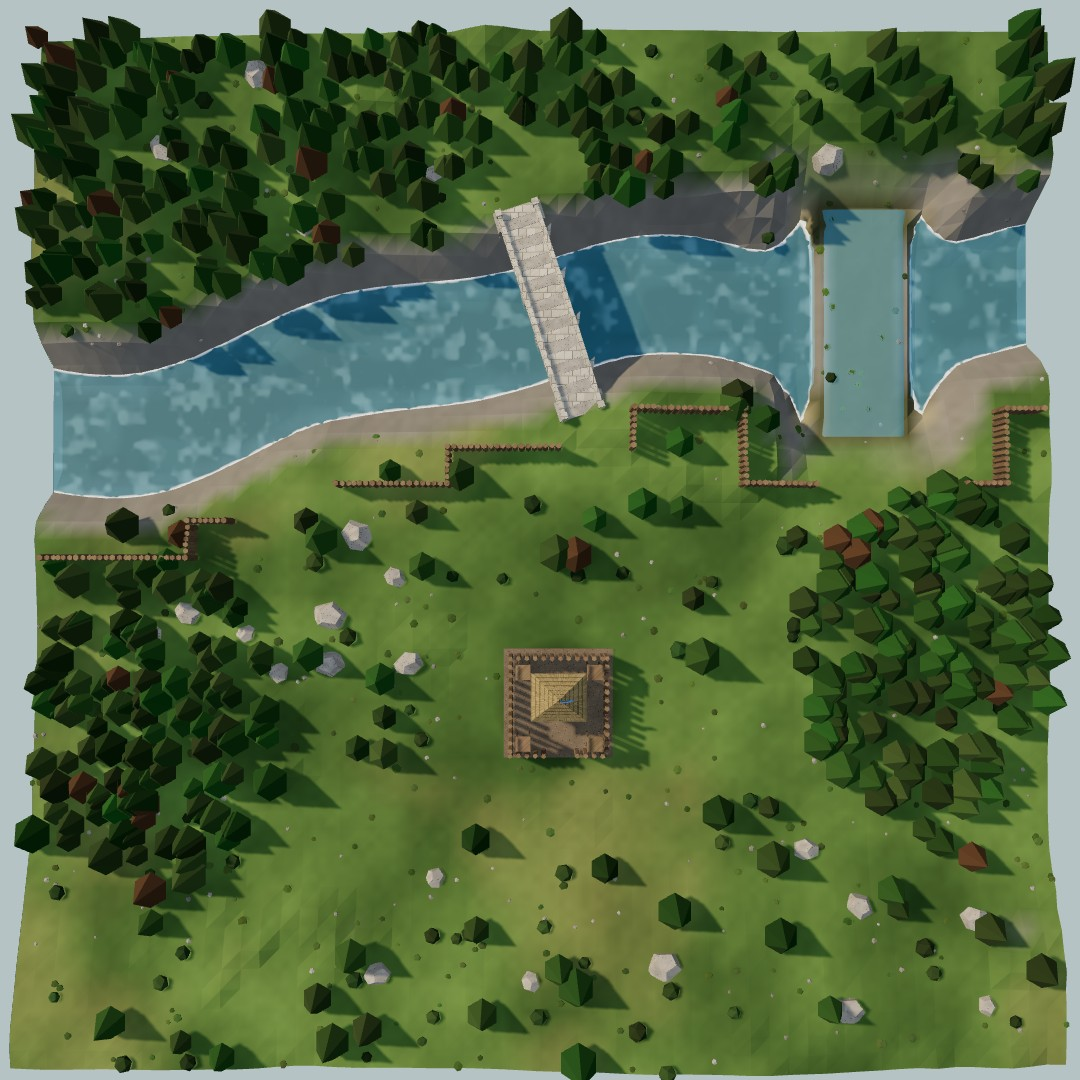
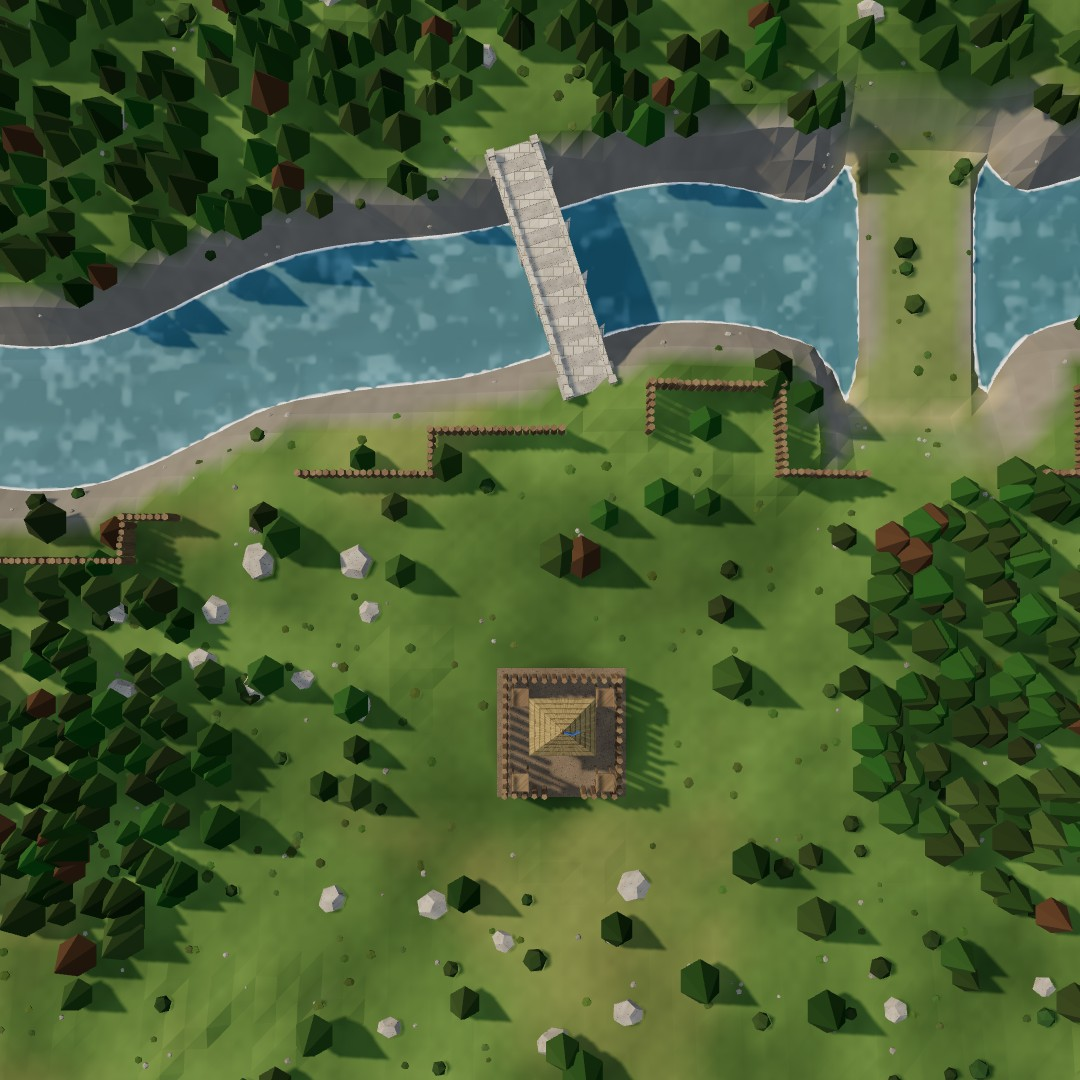
Stages: Stonebridge's ford a grassy strip again, new-building cards instead of a guide on stage 2, shorter days (stage 1 3/2/2 min, stage 2 4/2/2/2), previews framed with no sky
Claude-Session: https://claude.ai/code/session_01AE8sRRsVdpH9ETfQvtppox

diff --git a/index.html b/index.html
@@ -155,6 +155,15 @@ button.danger{border-color:#6b3a33;color:var(--bad)}
 #campInfo{width:100%;text-align:center;font-size:12px;color:var(--muted);letter-spacing:.08em;text-transform:uppercase}
 #campMap svg{max-height:calc(100dvh - 120px)!important}
 #stagePrev{background:rgba(12,13,9,.94);z-index:62}
+#newCards{z-index:63;background:rgba(8,10,9,.6)}
+.ncCard{width:min(300px,86vw);background:var(--panel);border:1px solid #6b5a2e;border-radius:14px;padding:16px 16px 14px;display:flex;flex-direction:column;align-items:center;gap:9px;text-align:center;box-shadow:0 6px 24px rgba(0,0,0,.5)}
+.ncStep{font-size:11px;letter-spacing:.1em;text-transform:uppercase;color:var(--muted)}
+.ncIcon svg{width:64px;height:64px;stroke:var(--gold);fill:none;stroke-width:1.4;stroke-linecap:round;stroke-linejoin:round}
+.ncCard h3{margin:0;font-family:var(--display);font-weight:400;font-size:22px;color:var(--gold)}
+.ncCost{display:flex;gap:12px;justify-content:center;font-size:16px;color:var(--parch)} .ncCost .cost,.ncStats .stat{display:inline-flex;align-items:center;gap:4px} .ncCost .ico svg,.ncStats .ico svg{width:20px;height:20px}
+.ncStats{display:flex;flex-wrap:wrap;justify-content:center;gap:8px 16px;font-size:17px;color:var(--parch)}
+#ncStats .stat{font-size:17px;gap:5px} #ncStats .stat .ico,#ncCost .ico{width:20px;height:20px}
+.ncCard button{min-width:120px;margin-top:4px}
 .stageSheet{display:flex;flex-direction:column;align-items:center;gap:12px;width:min(520px,100%);max-height:100%;overflow:auto}
 .stPic{width:100%;max-width:min(520px,62dvh);aspect-ratio:1/1;border-radius:10px;border:1px solid #4a4838;overflow:hidden;background:#2a2b22;display:flex;align-items:center;justify-content:center;position:relative;flex:0 0 auto}
 .stPic img{width:100%;height:100%;object-fit:cover;display:block} .stPic .tag{position:absolute;left:8px;top:8px;font-size:11px;letter-spacing:.08em;text-transform:uppercase;color:var(--parch);background:rgba(20,21,15,.75);padding:2px 7px;border-radius:5px} .stPic .soon{color:var(--muted);letter-spacing:.1em;text-transform:uppercase;font-size:13px}
@@ -409,6 +418,16 @@ button.armed .bIco{width:18px;height:18px;fill:none;stroke:currentColor;stroke-w
       <button id="campBack">Back</button>
     </div>
   </div>
+  <div class="modal" id="newCards" hidden>
+    <div class="ncCard">
+      <div class="ncStep" id="ncStep"></div>
+      <div class="ncIcon" id="ncIcon"></div>
+      <h3 id="ncName"></h3>
+      <div class="ncCost" id="ncCost"></div>
+      <div class="ncStats" id="ncStats"></div>
+      <button class="primary" id="ncNext">Next</button>
+    </div>
+  </div>
   <div class="modal" id="stagePrev" hidden>
     <div class="stageSheet">
       <div class="stPic" id="stPic"></div>
@@ -586,23 +605,16 @@ const MAP_RULES = {
                   { spear: [10, 26, 10], sword: [4, 12, 8], archer: [4, 10, 6], xbow: [0, 4, 2], lancer: [0, 1], rider: [0, 0, 1], ballista: [0, 1], catapult: [0, 1] }],
           day: [900, 150], spawnGap: .5 },
   // Greenvale, the campaign's first stop and its tutorial: three short nights of tier-1 spearmen and archers, from the north-east
-  vale: { waves: [{ spear: [4] }, { spear: [6], archer: [2] }, { spear: [8], archer: [3] }], day: [300, 180, 180], spawnGap: 1.6,
+  vale: { waves: [{ spear: [4] }, { spear: [6], archer: [2] }, { spear: [8], archer: [3] }], day: [180, 120, 120], spawnGap: 1.6,
           res: { gold: 60, wood: 70, stone: 10, food: 30 } },
   // Stonebridge (stage 2): raiders from the north over the stone bridge; from night 3 some come by the ford upstream; a ram on night 4
   bridge: { waves: [{ spear: [5] }, { spear: [6], sword: [3] }, { spear: [6], sword: [3], archer: [3] }, { spear: [8], sword: [4], archer: [3], ram: [1] }],
-            day: [300, 180, 180, 180], spawnGap: 1.4, res: { gold: 80, wood: 90, stone: 20, food: 30 } },
+            day: [240, 120, 120, 120], spawnGap: 1.4, res: { gold: 80, wood: 90, stone: 20, food: 30 } },
 };
 // campaign stops' own maps: the buildings each one has (the stop's and every earlier stop's), and where it sits on the overview
 const CAMP_MAPS = {
   vale: { stop: 0, cats: { eco: ['house', 'farm', 'lodge', 'quarry'], def: ['tower'], decor: ['road', 'flowers', 'torch'] } },
-  bridge: { stop: 1, cats: { eco: ['house', 'farm', 'lodge', 'quarry'], def: ['tower', 'barracks', 'wall', 'gate'], decor: ['road', 'flowers', 'torch', 'rack'] },
-    // its own guided first day: the new buildings, and closing the half-built wall along the bank
-    guide: () => [
-      { text: 'Build barracks', tool: 'barracks', cat: 'def', done: () => buildings.some(B => B.type === 'barracks') },
-      { text: 'Gate at the bridge', tool: 'gate', cat: 'def', done: () => { const b = bridges[0]; return !!b && buildings.some(B => B.type === 'gate' && Math.hypot(center(B).x - b.ex, center(B).z - b.ez) < 4.5); } },
-      { text: 'Close the wall', tool: 'wall', cat: 'def', done: () => BANK_WALL.length > 0 && BANK_WALL.every(n => occB[n] && WALLY[occB[n].type]) },
-      { text: 'Rally by the gate', tool: 'select', done: () => buildings.some(B => B.rally) },
-      { text: 'Weapon rack', tool: 'rack', cat: 'decor', done: () => buildings.some(B => B.type === 'rack') }] },
+  bridge: { stop: 1, cats: { eco: ['house', 'farm', 'lodge', 'quarry'], def: ['tower', 'barracks', 'wall', 'gate'], decor: ['road', 'flowers', 'torch', 'rack'] } },
 };
 var WAVES = WAVES_STD, NIGHTS = WAVES.length, DAYLEN = [300, 150, 150, 150, 150], SPAWN_GAP = 1.1;
 function mapRules() { const R = MAP_RULES[MAP]; WAVES = R ? R.waves : WAVES_STD; NIGHTS = WAVES.length; DAYLEN = R ? R.day : [300, 150, 150, 150, 150]; SPAWN_GAP = R ? R.spawnGap : 1.1; }
@@ -911,7 +923,6 @@ function recolor() {
     tmpC.copy(C.grass2).lerp(C.grass, clamp((gvar[k] - .25) * 2, 0, 1));
     tmpC.lerp(C.dry, sstep(.55, .72, dvar[k]) * .4);
     tmpC.lerp(C.sand, sstep(.8, .2, h)); tmpC.lerp(C.bed, sstep(-.1, -.8, h));
-    if (MAP === 'bridge') tmpC.lerp(C.bed, sstep(4, 2.5, Math.abs(i - FORD_X)) * sstep(1.1, .7, h) * .8);   // the ford's gravel bar, under its shallow water
     tmpC.lerp(C.rock, MAP === 'vale' ? sstep(1.4, 2.2, Math.hypot(hx, hz)) * .6 : sstep(.55, 1.1, Math.hypot(hx, hz)));   // Greenvale's hills stay green if (h > 15) tmpC.lerp(SNOW_C, sstep(16.2, 18.5, h) * .7); tmpC.lerp(C.dirt, dirt[k]);
     tmpC.multiplyScalar(.94 + .1 * hash(i * 1.7, j * 2.3));
     tCol[k * 3] = tmpC.r; tCol[k * 3 + 1] = tmpC.g; tCol[k * 3 + 2] = tmpC.b;
@@ -2123,20 +2134,6 @@ function makeStoneBridge(b) {
   g.traverse(o => { if (o.isMesh) o.castShadow = o.receiveShadow = true; });
   g.position.set(b.mx, 0, b.mz); g.rotation.y = Math.atan2(b.dx, b.dz);
   return g;
-}
-// Stonebridge's ford: a sheet of shallow water laid over the gravel bar, so it reads as shallows raiders wade through, not dry land
-let fordWater = null;
-const fordWaterM = new THREE.MeshStandardMaterial({ color: '#4f8aa0', transparent: true, opacity: .62, roughness: .55, depthWrite: false });
-function buildFord() {
-  if (fordWater) { scene.remove(fordWater); fordWater.geometry.dispose(); fordWater = null; }
-  if (MAP !== 'bridge') return;
-  const zc = stoneRiverZ(FORD_X), geo = new THREE.PlaneGeometry(6, 13, 16, 26).rotateX(-Math.PI / 2), pos = geo.attributes.position;
-  for (let i = 0; i < pos.count; i++) {   // a little above the bar where it's low, faded out up the banks
-    const x = FORD_X + pos.getX(i), z = zc + pos.getZ(i), edge = sstep(2.1, 3, Math.abs(pos.getX(i)));   // its sides slope down into the river
-    pos.setY(i, edge > 0 ? lerp(.68, -.02, edge) : Math.max(.68, hAt(x, z) - .05));
-  }
-  geo.computeVertexNormals(); fordWater = new THREE.Mesh(geo, fordWaterM); fordWater.position.set(FORD_X, 0, zc); fordWater.receiveShadow = true;
-  fordWater.renderOrder = 1; scene.add(fordWater);
 }
 function buildBridges() { for (const b of bridges) { b.g = makeBridge(b); scene.add(b.g); } }
 
@@ -5879,6 +5876,34 @@ function bankWall() {
   const gap = ([ci, cj]) => ci === bci || Math.abs(ci - fci) <= 1 || ci === 6 || ci === 7;
   for (const c of line) if (!gap(c)) { const ev = evaluate('wall', c[0], c[1]); if (ev.ok) place('wall', c[0], c[1], { instant: true, free: true, quiet: true }); }
 }
+// a stage's new buildings, one card at a time over the paused game: picture (tool icon), name, cost and tier-1 stats; Next, then Play
+var newCards = [], newCardI = 0;
+function newCardStats(t) {
+  const T = DEF[t], st = [];
+  if (T.hp) st.push(STAT('hp', T.hp[0]));
+  if (T.residents) st.push(STAT('home', T.residents[0])); if (T.gold) st.push(STAT('gold', `+${T.gold[0]}`)); if (T.food) st.push(STAT('food', `+${T.food[0]}`));
+  if (T.workers) st.push(STAT('hammer', T.workers[0])); if (T.reach) st.push(STAT('range', `${T.reach} m`, '', 'Reach'));
+  if (T.archers) st.push(STAT('guard', T.archers[0])); if (T.dmg && T.archers) st.push(STAT('bow', T.dmg[0])); if (T.range) st.push(STAT('range', `${T.range[0]} m`, '', 'Range'));
+  if (T.soldiers) st.push(STAT('guard', T.soldiers[0], '', 'Soldiers'), STAT('sword', SOLDIER.dmg[0]));
+  if (T.decor) { st.push(...fxStats(t, (i, v, n) => STAT(i, v, 'good', n))); if (T.charm) st.push(STAT('charm', `+${Math.round(T.charm * 100)}%`, 'good')); }
+  return st.join('');
+}
+function showNewCards(list) {
+  newCards = list.slice(); newCardI = 0; if (!newCards.length) return;
+  paused = true; hideGhost(); renderNewCard(); $('#newCards').hidden = false;
+}
+function renderNewCard() {
+  const t = newCards[newCardI], last = newCardI === newCards.length - 1;
+  $('#ncIcon').innerHTML = TOOL_ICON[t] || ''; $('#ncName').textContent = t === 'road' ? 'Path' : DEF[t].name;
+  $('#ncStep').textContent = `New · ${newCardI + 1}/${newCards.length}`;
+  $('#ncCost').innerHTML = costHTML(DEF[t].cost || {}); $('#ncStats').innerHTML = newCardStats(t);
+  $('#ncNext').textContent = last ? 'Play' : 'Next';
+}
+$('#ncNext').addEventListener('click', () => {
+  sfx('click');
+  if (++newCardI < newCards.length) { renderNewCard(); return; }
+  $('#newCards').hidden = true; paused = false;
+});
 // back to where this game was chosen: the campaign for a campaign map, else the map picker
 function showStart() { if (CAMP_MAPS[MAP]) { showMapPick(); $('#mapPick').hidden = true; openCampaign(CAMP_MAPS[MAP].stop); } else showMapPick(); }
 function showMapPick() {
@@ -6213,7 +6238,7 @@ function startGame() {
   mapRules();
   PH = { kind: 'day', wave: 1, t: DAYLEN[0] }; econT = TICK; gameOver = false; light = 1; if (paused) setPaused(false); setMusic('day');
   if (MAP === 'isle') { KX = 27; KZ = 27; } else if (MAP === 'pass') { KX = 27; KZ = 21; } else if (MAP === 'vale') { KX = 25; KZ = 33; } else if (MAP === 'bridge') { KX = 29; KZ = 37; } else { KX = 19; KZ = 27; }
-  genTerrain(); genBridges(); genTrees(); genRocks(); genClutter(); syncTerrain(); buildBridges(); buildFord(); genShore(); hideGhost(); deselect();
+  genTerrain(); genBridges(); genTrees(); genRocks(); genClutter(); syncTerrain(); buildBridges(); genShore(); hideGhost(); deselect();
   Object.assign(res, (MAP_RULES[MAP] || {}).res || { gold: 40, wood: 45, stone: 0, food: 20 });
   stats = { slain: 0, lost: 0, fallen: 0, gold: 0, wood: 0, stone: 0, food: 0, built: 0, upgrades: 0, t0: performance.now() };
   $('#summary').hidden = true; $('#log').innerHTML = '';
@@ -6223,7 +6248,9 @@ function startGame() {
   if (MAP === 'vale') { yaw = -Math.PI / 4; target.x += 2; target.z -= 2; }   // from the south-west, the way in (north-east) at the top of the screen
   if (MAP === 'bridge') { yaw = 0; target.z -= 4; bankWall(); }   // from the south, the river and the raiders' bank at the top
   BANK_WALL = MAP === 'bridge' ? BANK_WALL : [];
-  if (CAMP_MAPS[MAP]) guideOn = true;              // a stage: its guided first day every time (Skip ends it)
+  if (MAP === 'vale') guideOn = true;               // the tutorial stage: the guided first day every time (Skip ends it)
+  else if (CAMP_MAPS[MAP]) { guideOn = false; guideMark(); }
+  if (CAMP_MAPS[MAP] && CAMP_MAPS[MAP].stop > 0) showNewCards(CAMPAIGN[CAMP_MAPS[MAP].stop].adds);   // a later stage: its new buildings, one card each, before play
   updateCam();
   log('Drag · twist · pinch');
   log(`Survive <b>${NIGHTS} nights</b>`);

diff --git a/tools/render/maps.js b/tools/render/maps.js
@@ -5,7 +5,7 @@ const path = require('path'), fs = require('fs');
 const { openGame } = require('./serve');
 const ROOT = path.resolve(__dirname, '../..');
 const arg = (k, d) => { const i = process.argv.indexOf(k); return i > 0 ? process.argv[i + 1] : d; };
-const VIEW = { meadow: [28, 0, 28, 0, 1.56, 64], isle: [28, 0, 28, 0, 1.56, 64], pass: [28, 4, 28, 0, 1.56, 64], vale: [29.5, 0, 27.5, 0, 1.56, 73], bridge: [28, 0, 28, 0, 1.56, 75] };   // vale: Stage 1's preview (top-down too, sharper: PX)    // straight down over the whole map    // target x, y, z, yaw, pitch, dist
+const VIEW = { meadow: [28, 0, 28, 0, 1.56, 64], isle: [28, 0, 28, 0, 1.56, 64], pass: [28, 4, 28, 0, 1.56, 64], vale: [28, 0, 28, 0, 1.56, 64], bridge: [28, 0, 28, 0, 1.56, 64] };   // stage previews framed like the map cards: no sky past the edges   // vale: Stage 1's preview (top-down too, sharper: PX)    // straight down over the whole map    // target x, y, z, yaw, pitch, dist
 (async () => {
   const { page, close, errors } = await openGame('index.html?debug&map=meadow', { three: arg('--three'), viewport: { width: 400, height: 400 } });
   const PX = { vale: 1080, bridge: 1080 };   // stage previews are drawn bigger: they fill a phone's width at 3× pixels

diff --git a/CLAUDE.md b/CLAUDE.md
@@ -67,8 +67,8 @@ The whole game is currently one self-contained file: `index.html` (~165 KB, thre
 - **Meadow**: the original map: a winding river on the east side (`meadowRiverX`), crossed by one fixed bridge square across it on the castle's row (`bridgeRays`). Rocks: a stony patch between the castle and the river north of the bridge (8) plus up to 48 scattered (≈510 stone). Nobody wades any river (`canStand` modes 1 and 2 need h ≥ .3), so raiders spawning east of it must cross the bridge.
 - **River isle**: the castle on a flat island inside a wobbly ring of river (`ISLE.r` 16.6 m, `isleR(angle)`), hills beyond the far bank. Two more rivers flow out of the ring to the map's edge, north-east and south-west (`isleOutN`/`isleOutS`, carved in `genHeight` outside the ring only), so the far bank is split in two. Three fixed, free timber footbridges at `ISLE_BRIDGES` (−90°, 30°, 150°), each radial (square across the ring). Bridges at any angle (`genBridges` from `bridgeRays`: march along a ray; each end runs on past the water until it lands on flat ground at the bank top (`flat`: height > .5, slope < .6 on the centre line and 1.3 m either side, up to 6 m), so the deck is level with the ground beside its ends; trestles wherever the deck is over 1 m above the ground; a bridge is `x0, z0, dx, dz, L`, deck `DECK_W` 1.9; `bridgeT`/`bridgeW`/`onDeck`; `bridgeCell[n]` = index + 1 for every cell the deck touches, `b.ends` its end cells). `deckY(b, t)` arches the deck (`BRIDGE_RISE` .45); units stand at `walkY` (the deck inside its strip, else the ground) everywhere they are drawn; `cellPass` lets everyone path over bridge cells, `canStand` only on the deck strip; A* steps on and off a bridge only through its end cells; `routePoints` turns a run of bridge cells into: a point on the ground 0.8 m in front of the entry end, the deck's end, its far end, the ground beyond (on-deck starts/targets keep `bridgeWaypoint` centre-line points); a unit standing on the ground in a cell a deck touches counts as off the bridge (`deckAt`, in `findPath` and `clearLine`), else it was routed up the deck's side and stood stuck on the bank; raiders can't wade (`canStand` mode 2 needs h ≥ .3). Nothing can be built or pathed on a bridge ("Bridge"). Model: `makeBridge` (planks across the arch, two log stringers, trestles where it crosses water, log railings, grey stone landings), `buildBridges` after `syncTerrain`. Woods on the island (clear round the castle and along the way to each bridge), forest beyond the river; stone only beyond the river: three outcrops between the bridges (`ISLE_ROCKS`, `isleRockSite`, 7 rocks each) plus 16 scattered rocks, so masons either live by the castle and walk via a bridge or build out by the rocks, exposed.
 - **Mountain pass** (`MAP` 'pass'): no water. The castle on a plateau in the middle of the top half (`PASS.plate` 9.5 m round it, height 6); the open ground rings it and narrows into a pass (about 23–27 m wide, its sides unalike) coming up from the bottom edge (x ≈ 14–39), falling to about 1.5 m there and rolling a little, inside an uneven line of mountains (`PASS_EDGE` polyline, closed below the map's bottom edge; `passAt` gives the depth inside it, wobbled by noise); rough mountains beyond (8–18 m, ridged noise, snow over 16 m via `SNOW_C` in `recolor`) behind 3 m cliffs (`passHeight`). `passOpen(x, z)` (depth > .3) is the only ground anyone may stand on, path through or build on (`canStand`, `cellPass`, `evaluate` "Too steep"), so every raider comes up the pass from the bottom edge, where they spawn (`edgePoint`: scattered about the middle of the open span on the bottom edge (a bell curve over its middle half; evenly across it they read as coming up one side), an open point there with a route to the castle door, else any open point there, so a walled-off pass still spawns them in the pass to break the walls; the old fallback in the mountains left them stuck). Trees: a thick forest ring round the castle (6.8 to 13 m out) except toward the pass (south), trees along the foot of the mountains, clumps in the open, and unreachable `deco` pines on the mountains (`treeFree` skips them). Stone is plentiful and kept to the foot of the mountains so the middle stays open: 8 outcrops picked each game 2.2–3.8 m inside the mountain line (`pickPassRocks` → `PASS_ROCK_C`, 9 m apart), 8 rocks each no deeper than 5 m in, plus 14 scattered no deeper than 4.5 m. Rules (`MAP_RULES.pass`, applied by `mapRules()` in `startGame`): one 900 s day (15 min), then night 1 = 70 raiders (mostly tier 1 foot, a few tier 2, 4 crossbows, a horse spear and a ram), a 150 s day, night 2 = 100 (mostly tier 2–3, with crossbows, horsemen, a ballista and a mangonel; `MAP_RULES.pass.waves`); raiders spawn every `SPAWN_GAP` .5 s; same starting resources. The camera starts looking up the pass (`yaw` 0). Only a raider's bigger parts (bounding radius ≥ .16) cast shadows (`spawnEnemy`), as up to 100 can be on screen.
-- **Greenvale** (`MAP` 'vale', campaign stop 1, the tutorial; played from the campaign screen's Play button or `?map=vale`, not in the map picker): a small green valley (`VALE`: about 33 m across round (27, 31), an uneven rim from `fbm`, about 260 open cells against the usual 784) closed in by gentle wooded hills nobody may walk or build on (`valeAt` depth, `valeOpen`; `mapOpen(x, z)` covers both bounded maps in `canStand`, `cellPass` and `evaluate` "Too steep"), open only to the north-east, where a 14 m wide pass (`VALE.w`; 9 m was too narrow for Jack) (`VALE.gap`) runs out to the map's corner: every raider spawns well inside its mouth on the top or right edge (`edgePoint`) and comes that way. The hills stay green (`recolor` only tints much steeper ground as rock there), mostly open grass with patches of out-of-reach `deco` woods (Jack found them too thickly wooded twice). Plenty to gather, but natural (Jack found the first version too thickly wooded and its rock clusters too tight): a thin band of trees round the rim and up the pass's sides (its middle 3.5 m kept clear), a few copses in the meadow (about 75 trees in reach), and about 40 rocks, all near the foot of the hills (Jack wants stone by the hill ground, not out in the meadow): 6 loose groups of 3–5 spread over 8 m just inside the rim (`pickValeRocks`, `VALE_ROCK_C`, depth 1–2.6 m) plus 16 single rocks within 4.5 m of it, none in the pass. Castle at `KX/KZ` 25,33 (cells 11–13, 15–17); the camera starts from the south-west so the way in is at the top of the screen. Rules (`MAP_RULES.vale`): 3 nights (4 spears; 6 spears + 2 archers; 8 spears + 3 archers, all tier 1), days 300/180/180 s, spawn gap 1.6 s, start gold 60 wood 70 stone 10 food 30 (`res` in the rules, read by `startGame`). Its buildings come from `CAMP_MAPS.vale.cats` (house, fields, lumber, quarry; archers; path, flowers, torch), not the loadout (`applyLoadout`; number keys only pick tools in the dock); the guided first day runs every time (`guideOn` set in `startGame`). Stars are kept under `STARS.vale` and shown on its campaign card; Restart and Play again go back to the campaign (`showStart`, `openCampaign`).
-- **Stonebridge** (`MAP` 'bridge', Stage 2; from the campaign or `?map=bridge`): a river winding from the east edge to the west (`stoneRiverZ(x)`, flowing west: the water shader's `uIsle` 2 and `flowVel`), the town on the south bank, the raiders' woods on the north bank, low hills along the south edge. One old **stone bridge** north of the castle (`BRIDGE_X` 28.5, square across the river, `bridgeRays` → `stone: true` → `makeStoneBridge`: a paved deck on a solid stone span, low parapets, piers with a cutwater upstream where it stands in water, stone landings; `b.ex/ez` its southern end) and upstream a **ford** (`FORD_X` 46.5: the river bed rises to a gravel bar at .6–.66, above the .45 raiders' routes need, with gentle banks down to it over ~10 m (`ramp`), coloured as river bed in `recolor`, under a translucent sheet of shallow water (`buildFord`, `fordWater`, its sides sloping down into the river) so it reads as shallows; workers (mode 1) can wade it too, plain villagers can't). Castle at `KX/KZ` 29,37 (cells 13–15, 17–19); camera from the south (`yaw` 0), the river at the top. A **half-built palisade** stands along the town's bank from edge to edge (`bankWall()` in `startGame`, `BANK_D` 7.2 m south of the river's middle, past the bank's slope; each column's cell nudged south off the bridge, the slope and the wet; steps joined on their southern side; placed free and instant), left open at the bridge's southern end (1 cell: a gate), at the ford (3 cells) and in one stretch to the west (3 cells): the new player closes it with a gate and a few walls (`BANK_WALL` lists every cell of the line). Woods: thick on the north bank, a wood in the south-west and one in the south-east, lone trees; stone: 10 rocks just inside the wall west of the castle, 9 by the southern hills, 5 on the north bank (never on the wall's line). Raiders spawn on the north edge (`edgePoint`): toward the bridge (x 10–34) on nights 1–2; from night 3 two in five come from the north-east (x 40–54) and cross at the ford. Rules (`MAP_RULES.bridge`): 4 nights (5 spears; 6 spears + 3 swords; + 3 archers; 8 spears, 4 swords, 3 archers and a tier-1 ram), days 300/180/180/180 s, spawn gap 1.4 s, start gold 80 wood 90 stone 20 food 30. Buildings (`CAMP_MAPS.bridge.cats`): Stage 1's plus barracks, wall, gate and weapon rack. Its own guided first day (`CAMP_MAPS.bridge.guide`, used by `applyLoadout`): barracks, a gate at the bridge (a gate within 4.5 m of `b.ex/ez`), close the wall (every `BANK_WALL` cell a wall or gate), rally by the gate, a weapon rack. Preview picture `maps/bridge.jpg`.
+- **Greenvale** (`MAP` 'vale', campaign stop 1, the tutorial; played from the campaign screen's Play button or `?map=vale`, not in the map picker): a small green valley (`VALE`: about 33 m across round (27, 31), an uneven rim from `fbm`, about 260 open cells against the usual 784) closed in by gentle wooded hills nobody may walk or build on (`valeAt` depth, `valeOpen`; `mapOpen(x, z)` covers both bounded maps in `canStand`, `cellPass` and `evaluate` "Too steep"), open only to the north-east, where a 14 m wide pass (`VALE.w`; 9 m was too narrow for Jack) (`VALE.gap`) runs out to the map's corner: every raider spawns well inside its mouth on the top or right edge (`edgePoint`) and comes that way. The hills stay green (`recolor` only tints much steeper ground as rock there), mostly open grass with patches of out-of-reach `deco` woods (Jack found them too thickly wooded twice). Plenty to gather, but natural (Jack found the first version too thickly wooded and its rock clusters too tight): a thin band of trees round the rim and up the pass's sides (its middle 3.5 m kept clear), a few copses in the meadow (about 75 trees in reach), and about 40 rocks, all near the foot of the hills (Jack wants stone by the hill ground, not out in the meadow): 6 loose groups of 3–5 spread over 8 m just inside the rim (`pickValeRocks`, `VALE_ROCK_C`, depth 1–2.6 m) plus 16 single rocks within 4.5 m of it, none in the pass. Castle at `KX/KZ` 25,33 (cells 11–13, 15–17); the camera starts from the south-west so the way in is at the top of the screen. Rules (`MAP_RULES.vale`): 3 nights (4 spears; 6 spears + 2 archers; 8 spears + 3 archers, all tier 1), days 180/120/120 s (3, 2, 2 minutes: Jack's call), spawn gap 1.6 s, start gold 60 wood 70 stone 10 food 30 (`res` in the rules, read by `startGame`). Its buildings come from `CAMP_MAPS.vale.cats` (house, fields, lumber, quarry; archers; path, flowers, torch), not the loadout (`applyLoadout`; number keys only pick tools in the dock); the guided first day runs every time (`guideOn` set in `startGame`). Stars are kept under `STARS.vale` and shown on its campaign card; Restart and Play again go back to the campaign (`showStart`, `openCampaign`).
+- **Stonebridge** (`MAP` 'bridge', Stage 2; from the campaign or `?map=bridge`): a river winding from the east edge to the west (`stoneRiverZ(x)`, flowing west: the water shader's `uIsle` 2 and `flowVel`), the town on the south bank, the raiders' woods on the north bank, low hills along the south edge. One old **stone bridge** north of the castle (`BRIDGE_X` 28.5, square across the river, `bridgeRays` → `stone: true` → `makeStoneBridge`: a paved deck on a solid stone span, low parapets, piers with a cutwater upstream where it stands in water, stone landings; `b.ex/ez` its southern end) and upstream a **ford** (`FORD_X` 46.5: the river bed rises to a gravel bar at .6–.66, above the .45 raiders' routes need, with gentle banks down to it over ~10 m (`ramp`): a grassy strip across the river (Jack preferred it to a translucent sheet of shallow water, which was tried and dropped); workers (mode 1) can cross it too, plain villagers can't). Castle at `KX/KZ` 29,37 (cells 13–15, 17–19); camera from the south (`yaw` 0), the river at the top. A **half-built palisade** stands along the town's bank from edge to edge (`bankWall()` in `startGame`, `BANK_D` 7.2 m south of the river's middle, past the bank's slope; each column's cell nudged south off the bridge, the slope and the wet; steps joined on their southern side; placed free and instant), left open at the bridge's southern end (1 cell: a gate), at the ford (3 cells) and in one stretch to the west (3 cells): the new player closes it with a gate and a few walls (`BANK_WALL` lists every cell of the line). Woods: thick on the north bank, a wood in the south-west and one in the south-east, lone trees; stone: 10 rocks just inside the wall west of the castle, 9 by the southern hills, 5 on the north bank (never on the wall's line). Raiders spawn on the north edge (`edgePoint`): toward the bridge (x 10–34) on nights 1–2; from night 3 two in five come from the north-east (x 40–54) and cross at the ford. Rules (`MAP_RULES.bridge`): 4 nights (5 spears; 6 spears + 3 swords; + 3 archers; 8 spears, 4 swords, 3 archers and a tier-1 ram), days 240/120/120/120 s (4 minutes, then 2 per wave: Jack's call), spawn gap 1.4 s, start gold 80 wood 90 stone 20 food 30. Buildings (`CAMP_MAPS.bridge.cats`): Stage 1's plus barracks, wall, gate and weapon rack. No guided day (only Stage 1, the tutorial, has one; `guideOn` is set only for 'vale'; `applyLoadout` still takes a stage's own `guide` if one is ever given). Instead, every stage after the first opens with its **new building cards** (`showNewCards(CAMPAIGN[stop].adds)`, `#newCards`, `renderNewCard`, `newCardStats`): over the paused game, one card per new building or decor: "New · 1/4", its tool icon large, name, cost and tier-1 stats as icon + number (health; housing, gold, food, workers, reach; archers, damage, range; soldiers and their damage; a decor's effects and charm), Next, and Play on the last, which unpauses. Preview picture `maps/bridge.jpg`.
 - Raiders pick targets by walking distance, never a straight line across water (`pickTarget` → `reachTarget`: `landField` is a breadth-first cell count over land and bridges, buildings counted as open since they break through; unreachable buildings are skipped) and route on the cell grid with `walkTo` (mode 2) toward a fixed point on the side they reach first (`e.tp`, reset on each 3 s retarget); when buildings or walls close every route, `walkTo` falls back to a mode-3 path (`cellPass` mode 3 ignores occupancy) so they walk to whatever blocks the way and break it (they used to walk straight at the target and stand at a riverbank on River isle); straight `steer` only within 3 m and over open ground (`clearLine`); `edgePoint` falls back to mode-3 routes for a walled-in town; a wall in the way (stuck or 3.5 s without progress) is attacked as before. A raider spawned a metre or so from its point never lands on ground it can't stand on (`spawnEnemy` falls back to the point itself). Spawn points (`edgePoint`) must be walkable (`cellPass` mode 2) and have a route to the castle's door (a route to the castle's centre never exists: it is inside the building), else raiders spawned on steep edge hills stood stuck.
 - No building over a rock (`evaluate`: "Rocks"), so stone is never buried.
 - **Map sides** (`buildEdges`, from `syncTerrain`): solid earth walls from the ground's edge down to `EDGE_BASE` −4 (vertex-coloured: grassy lip, soil, darker below) and a water cross-section where a river runs off the edge, so the map reads as a block of land from low angles. (A 50 m scenery skirt beyond the map was tried and dropped.)
@@ -80,7 +80,7 @@ The whole game is currently one self-contained file: `index.html` (~165 KB, thre
 ## Gameplay summary
 - 28×28 grid of 2 m cells. Start: castle prebuilt in the middle, 3 villagers, gold 40, wood 45, stone 0, food 20.
 - **Day/night**: 5 waves on Meadow and River isle (`WAVES_STD`; `WAVES`, `NIGHTS`, `DAYLEN`, `SPAWN_GAP` are set per map by `mapRules()`; Mountain pass has 2). Day 1 lasts 300 s, days 2–5 last 150 s (`DAYLEN`); the last `DUSK` 40 s fade slowly to night (light and dusk colours in `updateLight`), with a "Dusk · Night N soon" banner and log line as it starts. Nothing is earned at night: no payouts (the `econT` ring waits for dawn) and a load carried in after dark is lost (`deliver`). Night ends when all enemies are dead. Summary screen at the end, with a star rating (`endGame`): 0 if the castle fell, 1 for surviving, 2 with some of the goals, 3 with all of them; goals: no buildings lost, no soldiers lost, castle above half health (listed with ticks, `#sumGoals`). The best per map is kept in `localStorage['mtd-stars']` (`STARS`, `starsHTML`, `starTotal`) and shown on the map cards (`markMapStars`); the total shows on the campaign screen.
-- **Campaign overview** (title screen → Campaign, `#campaign`): a sketch: one hand-drawn SVG map (`campaignSVG`: sea, meadows in the south, woods, hills, snowy mountains and the raiders' reddish north; the river (Jack's line) comes down from the north-east mountains past Horsefields and Meadowmere, splits round Riverbend (two branches, Riverbend between them) and runs out at the west edge above Greenvale; lands where a resource is scarce, so the stop's new building is the answer, all blending into each other (Jack wants it natural, never a sudden patch): each land is a soft ellipse in `CAMP_LAND` (centre, radii, colour) drawn blurred (`campSoft`) and clipped to the coast, and `landW(kind, x, y)` gives how deep a spot is in it; tree density is worked out from those weights everywhere (a 13 px grid with jitter: the deep woods dense and dark, meadow copses from value noise, thinning into dry grass, none on desert or plains, few on highlands and marsh, none in the bare north), and ground detail follows them too (dunes, dry shrubs, highland rocks, marsh pools and reeds). The lands: deep woods round Ironcrag (7, no stone: the mine), rocky highlands round Siegeford (8, little wood: catapults' stone is at hand), marsh along the river at Meadowmere (9, poor fields: the farmhouse), and in the east dry grass round a desert at Dunewell (5, few trees: forester and well) running north into the open plains of Horsefields (10, stables) and south to the dry hills of Watchhill (4). Stonebridge sits on the river. Markers were moved to sit in their lands; each stop's `land` line shows under its name in the info) with a dashed road through twelve numbered markers, the last two red boss markers (`CAMPAIGN`: name, position in the 800 × 900 view, `land` line, the buildings each adds; river in `CAMP_RIVER`, cubic segments, also sampled to keep trees off the water); the overview is drawn half again as tall as its 800 × 900 plan (`CAMP_CY` 1.5: the ground, lands, river and road are stretched in one group; trees, rocks, peaks and markers keep their shapes and are just moved down, `T(y, el)`), so it fills a phone's height, with only "Tap a stage" under it. Tapping a stage opens its **stage preview** (`#stagePrev`, `openStage`): the stage's picture (`STAGE_PIC`: the real stage seen straight down, `maps/vale.jpg` / `maps/bridge.jpg` from `node tools/render/maps.js vale bridge`, drawn at 1080 px (`PX`) so they stay sharp on a phone (Jack found 400 px blurry and wanted top-down, not angled); a stage with only a sketch can use it with `tag: 'Sketch'`; others "Soon"), "Stage N · Name", its sub and land line, the buildings it brings in (icons and names), stars, Back and (playable stages, `map`) Play. Landscape puts the picture beside the details. Restart / Play again on a stage go back to the campaign with its preview open (`showStart`, `openCampaign(stop)`).
+- **Campaign overview** (title screen → Campaign, `#campaign`): a sketch: one hand-drawn SVG map (`campaignSVG`: sea, meadows in the south, woods, hills, snowy mountains and the raiders' reddish north; the river (Jack's line) comes down from the north-east mountains past Horsefields and Meadowmere, splits round Riverbend (two branches, Riverbend between them) and runs out at the west edge above Greenvale; lands where a resource is scarce, so the stop's new building is the answer, all blending into each other (Jack wants it natural, never a sudden patch): each land is a soft ellipse in `CAMP_LAND` (centre, radii, colour) drawn blurred (`campSoft`) and clipped to the coast, and `landW(kind, x, y)` gives how deep a spot is in it; tree density is worked out from those weights everywhere (a 13 px grid with jitter: the deep woods dense and dark, meadow copses from value noise, thinning into dry grass, none on desert or plains, few on highlands and marsh, none in the bare north), and ground detail follows them too (dunes, dry shrubs, highland rocks, marsh pools and reeds). The lands: deep woods round Ironcrag (7, no stone: the mine), rocky highlands round Siegeford (8, little wood: catapults' stone is at hand), marsh along the river at Meadowmere (9, poor fields: the farmhouse), and in the east dry grass round a desert at Dunewell (5, few trees: forester and well) running north into the open plains of Horsefields (10, stables) and south to the dry hills of Watchhill (4). Stonebridge sits on the river. Markers were moved to sit in their lands; each stop's `land` line shows under its name in the info) with a dashed road through twelve numbered markers, the last two red boss markers (`CAMPAIGN`: name, position in the 800 × 900 view, `land` line, the buildings each adds; river in `CAMP_RIVER`, cubic segments, also sampled to keep trees off the water); the overview is drawn half again as tall as its 800 × 900 plan (`CAMP_CY` 1.5: the ground, lands, river and road are stretched in one group; trees, rocks, peaks and markers keep their shapes and are just moved down, `T(y, el)`), so it fills a phone's height, with only "Tap a stage" under it. Tapping a stage opens its **stage preview** (`#stagePrev`, `openStage`): the stage's picture (`STAGE_PIC`: the real stage seen straight down, `maps/vale.jpg` / `maps/bridge.jpg` from `node tools/render/maps.js vale bridge`, drawn at 1080 px (`PX`) so they stay sharp on a phone (Jack found 400 px blurry and wanted top-down, not angled), framed like the map cards (`VIEW` 28, 0, 28, dist 64: no sky past the map's edges); a stage with only a sketch can use it with `tag: 'Sketch'`; others "Soon"), "Stage N · Name", its sub and land line, the buildings it brings in (icons and names), stars, Back and (playable stages, `map`) Play. Landscape puts the picture beside the details. Restart / Play again on a stage go back to the campaign with its preview open (`showStart`, `openCampaign(stop)`).
 - **Waves** (`WAVES`): each wave lists how many of each kind come by tier, `{ kind: [tier 1, tier 2, tier 3] }` (`WAVES_STD`): spearmen are the basic raider and come first; 1 = 7 spears + 2 archers; 2 adds swordsmen and a ram; 3 crossbows, horse spears and a ballista; 4 horse swords, a catapult, tiers climb; 5 mostly tier 2–3 with a great ballista, a trebuchet and two rams. `startNight` builds the queue (`[kind, spawn point, tier]`): spearmen first, the other foot and horse mixed in at random, siege engines at the tail. The captain is gone.
 - **Raider kinds** (`ENEMY`; tier multipliers `RAIDER_T` hp ×1/1.6/2.3, dmg ×1/1.3/1.65; gallery names `RAIDER_NAME`): spear, sword (round shield; tier 3 a red one), archer (bow), xbow (crossbow, `xbowPose`, short bolts, range 5.5, a shot every 1.2 s (archers 1.8 s; Jack wants crossbows the faster shooters) for 7 damage (archers 6)), lancer (spear on a horse), rider (sword and shield on a horse), and three wheeled siege engines (`engine: true`, built by `makeEngine`, crewed by two figures of its tier standing in the engine's own frame, `animEngine`): ballista (the town's swivel bow `ballistaTurret` on a wheeled carriage, a timber mantlet from tier 2; the deck stops short of the back and the rear axle sits under its edge, so the crew stand in between the rails under the winch; the bow sits on a short stand (its post runs down through the deck) so the crank is within their reach; the mantlet stands on the deck's front edge, leaning out; a straight bolt, range 10), catapult (the town's `makeCatapult(tier)`: catapult / mangonel / trebuchet; a high stone sized by `CATA_SHOT` with `blastFx`, range 13), ram (a log slung level on two ropes (`RAM_Y`, `RAM_ROPE`) from a frame on four wheels; tier 2 a plank roof, tier 3 hides banded in iron and an iron head; range 1.25 from its middle). Crew: while an engine rolls both push from behind (lean in, arms forward); once it's in range the ballista's and catapult's crew walk to their work (`crewGo`): the loader kneels at the winch and turns the crank (`crewAim` puts both hands on the handle), which draws the ballista's slider and string back by the pulley rope or winds the catapult's arm down by its rope, and the reload (`e.load`, over `ENG_LOAD` × rate) only runs while he winds; the gunner holds the trigger line (`crewRope`) and yanks it to loose (`e.fireT` .35 s); they shoot only with both at their posts and fully wound (`e.crewReady`). The ram stays put at the wall: its pair take the log's back end and swing it on its ropes over `RAM_T` 2 s (`ramSwing`: haul it back .42 rad, drive it in faster and faster to .2, the blow (`RAM_HIT` .55) bounces it back a little (−.08), push it up again; Jack found a bigger knock-back threw the crew about), stepping with it a little behind (eased at 7/s), both hands on the end (`crewAim`); while it rolls they push the frame from behind. Engines from tier 2 fly a red pennant, never fight soldiers, turn slowly to aim (only shoot within .25 rad), keep others off by `ENEMY[k].r`, and when broken throw timbers and dust (`engineWreck`), slump and sink. Targets (`pickTarget`): spearmen the nearest building; swordsmen and horse spears the nearest tower or siege engine (`DEFENCE`: anything with archers or crew but the castle; else nearest building); horse swords the castle; archers, crossbows and ballistas the nearest non-wall building, shooting over walls (`lob` adds 3.5 m reach when a wall blocks them); catapults defences, then any non-wall building; rams walls and gates (`WALLY`), else the castle. Soldiers reach `ENEMY[k].r` further to hit an engine.
 - **Raider looks by tier** (`raiderArmour(p, tier)`, the same for every kind, only the weapon differs): tier 1 a plain red shirt (`raiderRed`) with a rope belt, bare-headed; tier 2 a red quilted gambeson (`raiderQuiltM`) with a short skirt, leather belt and the iron helm with nose and cheek guards (`makeHelm('raider')`); tier 3 mail under a red surcoat, a closed iron great helm (`makeHelm('greathelm')`: flat top, eye slit, breaths, a cross on the face) and dark iron shoulder plates. Horses wear a red blanket; tier 2+ a red cloth down the flanks, tier 3 an iron plate down the face. Gallery rows Raiders 1–3 and Raider siege.
